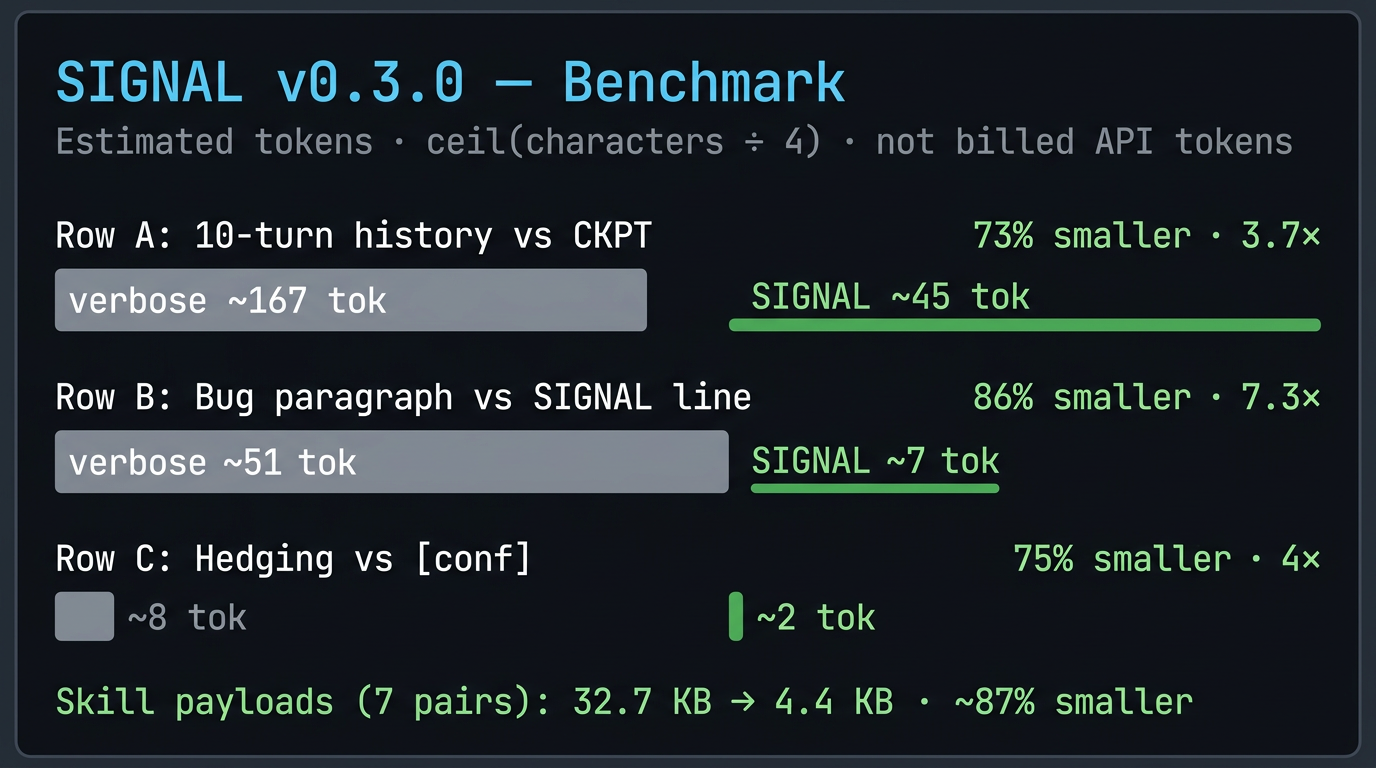
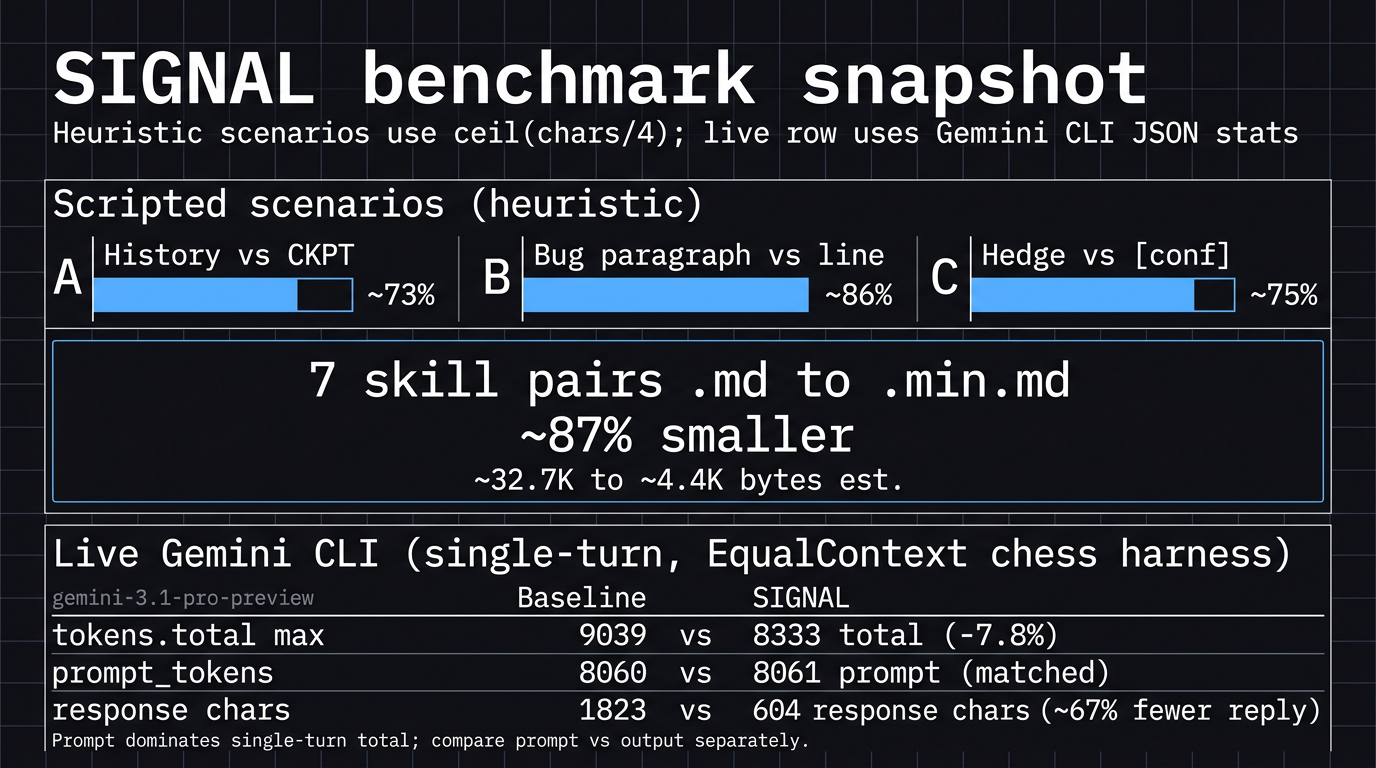
docs(readme): benchmark infographic and live Gemini EqualContext row
- Regenerate assets/signal-benchmark-results.png with scripted + live sections
- Document representative chess harness metrics (tokens.total, prompt, reply chars)
- Merge reproduce commands for live vs static benchmarks; refresh assets/README
- benchmark chess: strict-mode JSON parse, run.ps1 arg forwarding, results JSON
- Fix docs links to README anchors (token-metrics, gemini-team-adoption)

Made-with: Cursor

diff --git a/README.md b/README.md
@@ -52,11 +52,9 @@ Repo · [github.com/mattbaconz/signal](https://github.com/mattbaconz/signal) · 
 
 ## Demo
 
-![SIGNAL benchmark — scenario savings and skill payload shrink](assets/signal-benchmark-results.png)
+![SIGNAL benchmark — scripted scenarios, skill shrink, and live Gemini snapshot](assets/signal-benchmark-results.png)
 
-Heuristic token estimates use **`ceil(characters / 4)`** — useful for comparing shapes, not billed API tokens. Full tables: [Benchmark](#benchmark). Reproduce: [`scripts/benchmark.ps1`](scripts/benchmark.ps1).
-
-**Video/GIF:** A short install or benchmark run GIF is planned; see [`assets/README.md`](assets/README.md) to record **`assets/signal-demo.gif`** and swap it into this section later.
+**Figure:** scripted scenario savings (A–C), aggregate **`.md` → `.min.md`** skill payload shrink (~87% on seven pairs), and one **live Gemini CLI** row (single-turn `EqualContext` chess harness — `tokens.total` vs matched `prompt_tokens` vs reply length). Heuristic token estimates use **`ceil(characters / 4)`** for scenarios and skills; live row uses API-reported stats ([`docs/token-metrics.md`](docs/token-metrics.md)). Full tables: [Benchmark](#benchmark). Reproduce: [`scripts/benchmark.ps1`](scripts/benchmark.ps1); live: [`benchmark/README.md`](benchmark/README.md).
 
 ---
 
@@ -148,6 +146,8 @@ flowchart LR
   M --> D3
 ```
 
+**Cumulative** transcript savings (baseline vs checkpoint-style history) are covered in [`benchmark/README.md`](benchmark/README.md) (`benchmark/long-session/` after a full clone). **Prompt vs output vs `tokens.total`** — hosts report different scopes; see [`docs/token-metrics.md`](docs/token-metrics.md).
+
 ---
 
 ## Tiers
@@ -182,6 +182,10 @@ Same chart as [Demo](#demo); numbers below are the tables behind it.
 
 Heuristic: **`ceil(characters / 4)`** — not billed API tokens; good for comparing shapes.
 
+### Reading the numbers
+
+[`docs/token-metrics.md`](docs/token-metrics.md) explains why **`tokens.total`** can rise when you add project instructions while replies get shorter (compare **prompt** and **output** separately). For **multi-turn / cumulative** proof, run **`benchmark/long-session/`** ([`benchmark/README.md`](benchmark/README.md)) in a full clone—the tables below are reproducible snapshots from [`scripts/benchmark.ps1`](scripts/benchmark.ps1), not a substitute for long-session measurement.
+
 ### Scenarios (scripted)
 
 | Scenario | Verbose | SIGNAL | Saved |
@@ -205,7 +209,25 @@ Heuristic: **`ceil(characters / 4)`** — not billed API tokens; good for compar
 
 Min-only helpers (`signal-core`, `signal-diff`, `signal-search`) ≈ **1.6K** bytes (~**389** est. tokens).
 
-**Reproduce:**
+### Live Gemini (representative single-turn)
+
+From [`benchmark/benchmark chess/run_chess_compare.ps1`](benchmark/benchmark%20chess/run_chess_compare.ps1) **`-Pair EqualContext`** (matched `GEMINI.md` ~289 vs ~296 chars). Model **`gemini-3.1-pro-preview`**. *Totals mix prompt + generation — when prompt is large, `tokens.total` moves a little even if the reply shrinks a lot.*
+
+| Metric | Baseline | SIGNAL-style | Notes |
+| --- | ---: | ---: | --- |
+| `tokens.total` (max per model) | ~9,039 | ~8,333 | ~**7.8%** lower |
+| `prompt_tokens` | ~8,060 | ~8,061 | Matched context (fair pair) |
+| Reply (chars) | ~1,823 | ~604 | ~**67%** fewer chars |
+
+### Reproduce
+
+**Live** (Gemini CLI on `PATH`, auth required — refreshes JSON under `benchmark/benchmark chess/`):
+
+```powershell
+powershell -NoProfile -ExecutionPolicy Bypass -File .\benchmark\run.ps1 -Mode Chess -Pair EqualContext
+```
+
+**Static** (heuristic scenarios; no API):
 
 ```powershell
 powershell -NoProfile -ExecutionPolicy Bypass -File .\scripts\benchmark.ps1
@@ -258,7 +280,15 @@ flowchart LR
 
 ## Coding norms (Karpathy-style)
 
-Tiers compress **chat**. For **code edits**, the bundle still points at **Karpathy-style** discipline: small diffs, clear assumptions, verify goals.
+**Tiers** shape **assistant chat** (symbols, templates, checkpoints). **Karpathy-style norms** shape **implementation work** (how you edit code and ship commits): orthogonal axes—activating `/signal3` does not replace surgical diffs or explicit assumptions.
+
+Norms in brief (canonical list: [`references/karpathy-coding-norms.md`](references/karpathy-coding-norms.md)):
+
+1. **Assumptions** — explicit over implicit; say when unsure.
+2. **Simplicity** — avoid over-engineering.
+3. **Surgical diffs** — minimal changes tied to the goal.
+4. **Verifiable goals** — reproduce, test, or verify where it matters.
+5. **No filler** — skip “here is the code”; show the code.
 
 | Resource | Link |
 | --- | --- |

diff --git a/benchmark/README.md b/benchmark/README.md
@@ -1,31 +1,47 @@
 # SIGNAL benchmarks
 
-## What to measure (priority)
-
-1. **Long agentic sessions (primary proof)** — baseline keeps **full** chat history; SIGNAL-3 periodically **replaces** history with a **CKPT** atom (see `references/checkpoint.md`). Compare **cumulative** tokens over the whole session. **In a full clone of this repo**, use **`benchmark/long-session/`** (see on-disk `README.md` there).
-
-2. **Single-turn Q&A** (e.g. chess harness) — easy to run, but **SIGNAL-3 checkpointing does not apply**. Expect mixed or negative **net** `tokens.total` if one arm loads much more project context than the other. Read **[`docs/token-metrics.md`](../docs/token-metrics.md)** before interpreting totals.
-
-## Long-session harness (Gemini CLI) — start here
-
-After cloning, open **`benchmark/long-session/README.md`** and run:
+Single entrypoint (from repo root):
 
 ```powershell
-cd benchmark\long-session
-.\run_long_session.ps1 -Quick   # fast sanity check (5 turns)
-.\run_long_session.ps1          # full 15-turn run (~15–30+ min)
+# Static: char/4 heuristic + skill sizes (no API; safe for CI)
+powershell -NoProfile -ExecutionPolicy Bypass -File .\benchmark\run.ps1 -Mode Static
+
+# Live Gemini — single-turn chess A/B (needs `gemini` on PATH + auth)
+powershell -NoProfile -ExecutionPolicy Bypass -File .\benchmark\run.ps1 -Mode Chess
+
+# Live Gemini — multi-turn long session (extra args forwarded: -Quick, -Smoke, -DelayMs, …)
+powershell -NoProfile -ExecutionPolicy Bypass -File .\benchmark\run.ps1 -Mode LongSession -Quick
 ```
 
-- `turns.json` — scripted user messages (15 turns; chess-validator scenario).
-- `run_long_session.ps1` — baseline (full transcript every turn) vs SIGNAL-3 (synthetic `CKPT` replaces history before turns 6, 11, …). Writes `results_baseline.json`, `results_signal.json`, `results_compare.json`, `RESULTS.md`.
+You can also **cd** into `benchmark/long-session` or `benchmark/benchmark chess` and run the scripts there (useful for `-Pair EqualContext`, `-FixtureDir`, etc.).
 
-## Gemini CLI — chess single-turn pair
+## CI vs local
 
-Prefer `**GEMINI.md**` for default BOOT (see `templates/gemini-GEMINI.md`) instead of repeating a long prefix in every prompt.
+| Runner | Network | Default CI |
+|--------|-----------|------------|
+| [`scripts/benchmark.ps1`](../scripts/benchmark.ps1) via `-Mode Static` | No | Yes ([`scripts/verify.ps1`](../scripts/verify.ps1)) |
+| `benchmark chess/run_chess_compare.ps1` | Yes (Gemini API) | No |
+| `long-session/run_long_session.ps1` | Yes (many sequential calls) | No |
 
-- **`benchmark/benchmark chess/`** — same `prompt.txt`, two folder pairs, `run_chess_compare.ps1` → JSON results. See that folder’s **README** for `-Pair`, `-Model`, and **429** handling.
-- Use `**gemini -o json**` and interpret **`prompt`** vs **`tokens.total`** per [`docs/token-metrics.md`](../docs/token-metrics.md).
+## What to measure (priority)
+
+1. **Long agentic sessions (primary proof)** — baseline keeps **full** chat history; SIGNAL-3 **chunked** runs use a **synthetic CKPT** in the first message of each chunk (protocol benchmark — not the same as typing `/signal3` in chat). Compare **cumulative** `tokens_primary_max` and **message chars**. See **[`long-session/README.md`](long-session/README.md)** for metrics, `-Smoke` (6 turns), `-FixtureDir`, `-DelayMs`, and **429** spacing.
+
+2. **Single-turn Q&A** (chess harness) — fast; **SIGNAL-3 checkpointing does not apply**. Use **`-Pair EqualContext`** for fair `GEMINI.md` loading. Read **[`docs/token-metrics.md`](../docs/token-metrics.md)** before interpreting `tokens.total` vs `prompt`.
+
+## Shared library
+
+[`lib/gemini-invoke.ps1`](lib/gemini-invoke.ps1) — token parsing (`primary_max`, prompt, output estimate), JSON parse, stdin and node-bundle invoke with **retry on 429 / quota / transient**, run metadata (CLI version, auth hint, git short hash). Used by **long-session** and **chess** runners.
+
+## Layout
+
+| Path | Purpose |
+|------|---------|
+| [`run.ps1`](run.ps1) | Thin dispatcher: `Static` / `Chess` / `LongSession` |
+| [`lib/gemini-invoke.ps1`](lib/gemini-invoke.ps1) | Shared Gemini helpers |
+| [`long-session/`](long-session/) | Multi-turn baseline vs chunked CKPT |
+| [`benchmark chess/`](benchmark%20chess/) | Single-turn two-folder compare |
 
 ## External example harness
 
-A separate chess harness lives at `C:\chess benchmark\` (see `run_all.ps1` there). It complements but does not replace the long-session runner above.
+An optional external chess harness may live outside this repo; it does not replace **`long-session/`** for cumulative proof.

diff --git a/docs/gemini-team-adoption.md b/docs/gemini-team-adoption.md
@@ -59,7 +59,7 @@ Copy the chosen file’s body into your app repo’s `GEMINI.md` (or merge caref
 | **`npx skills add mattbaconz/signal`** | Skills in user discovery paths; works across projects. |
 | **`gemini extensions install https://github.com/mattbaconz/signal --consent`** | Bundled extension + skills aligned with releases; good for “install once” ergonomics ([releasing](https://geminicli.com/docs/extensions/releasing)). |
 
-**Do not load the same skill twice.** If you use the extension **and** a manual copy under another discovery path, Gemini may warn about conflicts. Pick **one** install path per machine. Details: [README — Installation options](../README.md#installation-options).
+**Do not load the same skill twice.** If you use the extension **and** a manual copy under another discovery path, Gemini may warn about conflicts. Pick **one** install path per machine. Install commands: [README — Install](../README.md#install); mirrored host trees (`gemini-signal/`, `claude-signal/`): [README — Repo map](../README.md#repo-map).
 
 ---
 
@@ -82,7 +82,7 @@ Models often switch to tutorial tone on **how-to** or setup questions even when 
 
 - Re-issue **`/signal2`** or **`/signal3`** when you need BOOT + structure on long threads.
 - Say explicitly: **follow SIGNAL strictly** or **stay in TMPL** for one turn.
-- Tier choice is host- and session-dependent: [README — When to use which tier (canonical)](../README.md#when-to-use-which-tier-canonical).
+- Tier choice is host- and session-dependent: [README — Tiers](../README.md#tiers).
 
 There is no guarantee of perfect symbol grammar on every turn; persistent `GEMINI.md` + occasional tier activation is the practical combination.
 
@@ -90,6 +90,6 @@ There is no guarantee of perfect symbol grammar on every turn; persistent `GEMIN
 
 ## See also
 
-- [README — Installation options](../README.md#installation-options)
-- [README — Cross-tool porting](../README.md#cross-tool-porting) (Gemini CLI row)
+- [README — Install](../README.md#install)
+- [README — Repo map](../README.md#repo-map) (`gemini-signal/`, `claude-signal/`, `skills/`)
 - [skills/signal.md](../skills/signal.md) (activation lines, `SIGNAL_DRIFT`)

diff --git a/benchmark/benchmark chess/README.md b/benchmark/benchmark chess/README.md
@@ -34,6 +34,8 @@ Keep **prompt** small without dropping safety:
 
 **Run**
 
+From repo root you can also: `powershell -File .\benchmark\run.ps1 -Mode Chess -Pair EqualContext`
+
 ```powershell
 cd benchmark\benchmark chess
 .\run_chess_compare.ps1 -Pair EqualContext
@@ -41,7 +43,7 @@ cd benchmark\benchmark chess
 .\run_chess_compare.ps1 -Model <model-id>   # optional; default = CLI default model
 ```
 
-The script invokes `node …/gemini.js -p <prompt> -o json --approval-mode plan` once per folder (separate cold starts), parses `stats` from JSON, and writes:
+The script invokes `node …/gemini.js -p <prompt> -o json --approval-mode plan` once per folder (separate cold starts), parses `stats` from JSON, and writes (with **`run_metadata`**: CLI version, auth hint, git short hash; **retries** on transient 429/quota via [`../lib/gemini-invoke.ps1`](../lib/gemini-invoke.ps1)):
 
 - **`Default`:** `results_chess_compare.json`
 - **`EqualContext`:** `results_chess_equal_compare.json`
@@ -50,7 +52,7 @@ It also prints **on-disk `GEMINI.md` character counts** before the runs and stor
 
 **429 / capacity**
 
-If Google returns **429** (*No capacity* / *RESOURCE_EXHAUSTED*), wait and **retry later**, or pass **`-Model`** to a different model your CLI supports. The script does not auto-retry (keeps runs deterministic).
+If Google returns **429** (*No capacity* / *RESOURCE_EXHAUSTED*), the runner **retries with backoff** a few times; if it still fails, wait and retry later, or pass **`-Model`** to a different model your CLI supports.
 
 **Interpreting tokens**
 

diff --git a/assets/README.md b/assets/README.md
@@ -1,13 +1,6 @@
-# Demo asset: `signal-demo.gif`
+# Assets
 
-The main [README](../README.md) **[Demo](../README.md#demo)** section uses the benchmark PNG today and points here for a future **GIF** hero. Optional **`signal-demo.gif`** is **not** committed until you record it locally.
+- **`signal-logo.png`** — README hero.
+- **`signal-benchmark-results.png`** — generated infographic: scripted scenarios (A–C), seven-pair **`.md` → `.min.md`** shrink (~87%), and a **live Gemini** row (EqualContext chess snapshot: `tokens.total`, prompt, reply chars). Heuristic vs API rows differ by design. Numbers should match [README Benchmark](../README.md#benchmark) tables.
 
-## Suggested recording (Windows)
-
-1. Terminal with a readable font size (e.g. Windows Terminal, 14–16 pt).
-2. **Install (short clip):** `npx skills add mattbaconz/signal -y` (or show `--list` after add).
-3. **Optional:** run `powershell -NoProfile -ExecutionPolicy Bypass -File .\scripts\benchmark.ps1` from a clone of this repo.
-4. **Optional:** `signal-commit\scripts\commit.ps1 --dry` in a tiny temp git repo.
-5. Export as **GIF** (≤ ~15–30 s, reasonable resolution) so README loads quickly.
-
-Save the output as **`assets/signal-demo.gif`** at the repo root path above, then commit if you want it in the README hero.
+See [benchmark/README.md](../benchmark/README.md) for Gemini CLI long-session and chess harnesses.

diff --git a/docs/token-metrics.md b/docs/token-metrics.md
@@ -37,7 +37,8 @@ Output compression alone cannot hide a 200-line `GEMINI.md`. To shrink **prompt*
 
 ## Further reading in this repo
 
-- [README.md — Maximize token savings](../README.md#maximize-token-savings) — practical knobs.
-- [README.md — Evidence](../README.md#evidence-what-we-measure) — what we claim and what we do not.
+- [README.md — Why SIGNAL](../README.md#why-signal) — motivation and what SIGNAL standardizes.
+- [README.md — Tiers](../README.md#tiers) — `/signal`, `/signal2`, `/signal3` habits.
+- [README.md — Benchmark](../README.md#benchmark) — scripted scenarios, skill pairs, and reading the numbers.
 - [templates/gemini-GEMINI.min.md](../templates/gemini-GEMINI.min.md) — thinnest always-on Gemini defaults.
 - [docs/signal-compress.md](signal-compress.md) — shrink `GEMINI.md` / notes.
